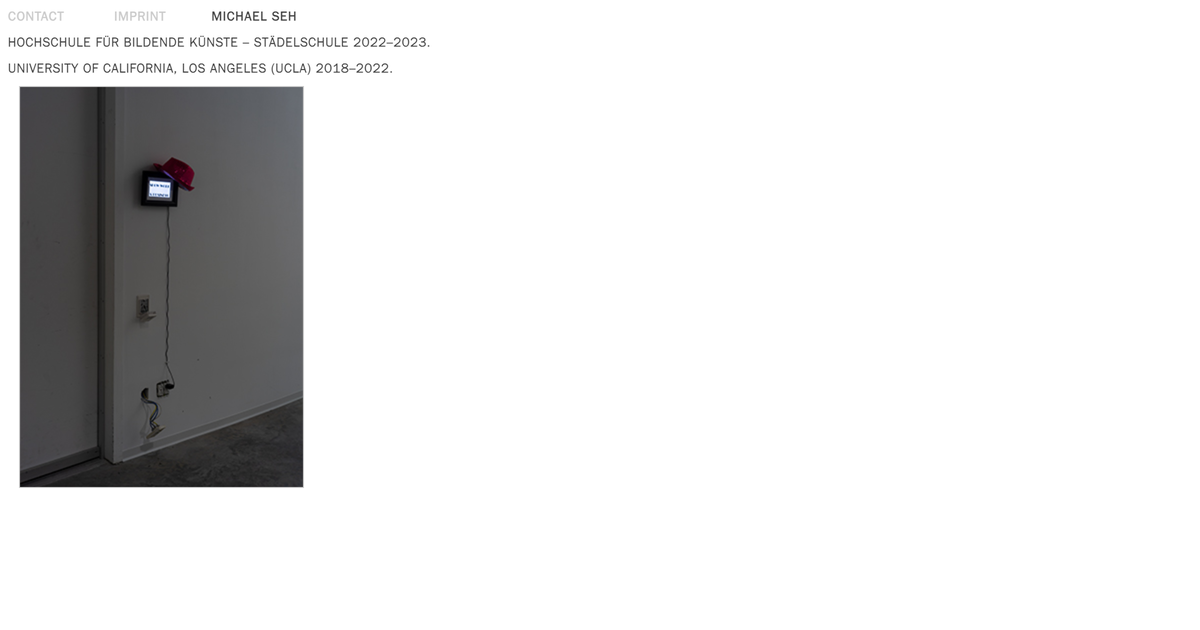
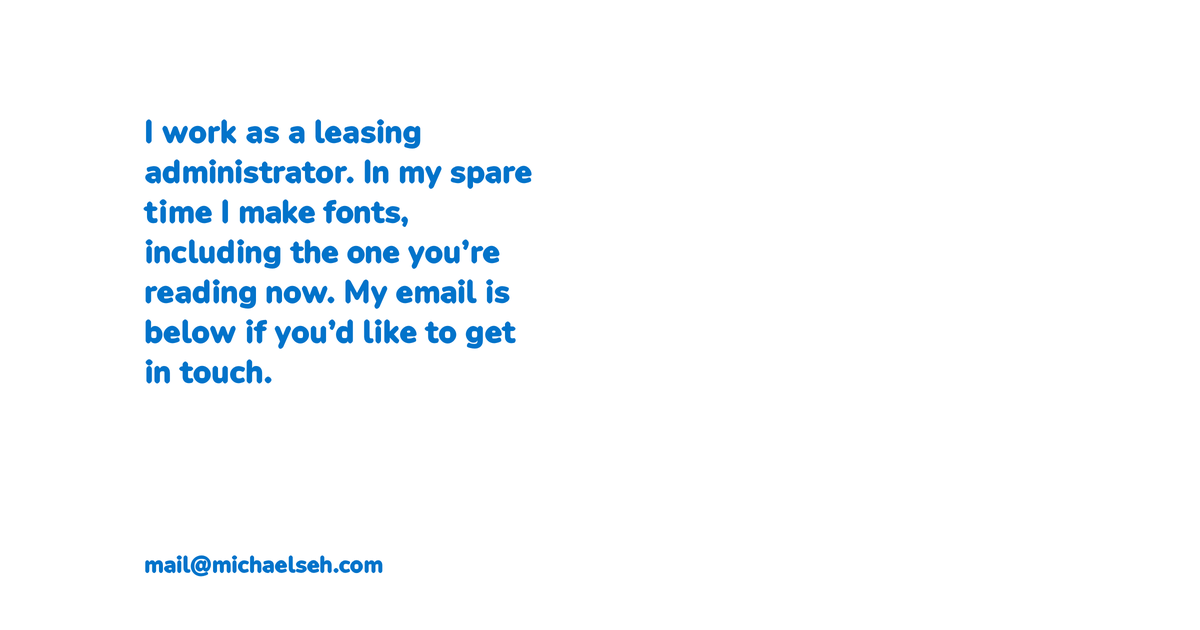
Add editable intro font tester, plain mailto, modern doctype, and social preview tags

diff --git a/index.html b/index.html
@@ -1,12 +1,23 @@
-<!DOCTYPE html PUBLIC "-//W3C//DTD XHTML 1.0 Transitional//EN" "http://www.w3.org/TR/xhtml1/DTD/xhtml1-transitional.dtd">
-<html xmlns="http://www.w3.org/1999/xhtml">
+<!DOCTYPE html>
+<html lang="en">
 <head>
+	<meta charset="utf-8">
 	<title>Michael Seh</title>
-	<meta http-equiv="Content-Type" content="text/html; charset=UTF-8" />
 	<meta name="description" content="Michael Seh is a type designer based in Los Angeles, CA." />
 	<meta name="keywords" content="Type Design, Michael, Seh, Typography, Type, MichaelSeh, LA, Los Angeles" />
 	<meta name="author" content="Michael, Seh, MichaelSeh" />
 	<meta name="viewport" content="width=device-width">
+	<meta property="og:type" content="website">
+	<meta property="og:url" content="https://michaelseh.com/">
+	<meta property="og:title" content="Michael Seh">
+	<meta property="og:description" content="Michael Seh is a type designer based in Los Angeles, CA.">
+	<meta property="og:image" content="https://michaelseh.com/og-screenshot.png">
+	<meta property="og:image:width" content="1200">
+	<meta property="og:image:height" content="630">
+	<meta name="twitter:card" content="summary_large_image">
+	<meta name="twitter:title" content="Michael Seh">
+	<meta name="twitter:description" content="Michael Seh is a type designer based in Los Angeles, CA.">
+	<meta name="twitter:image" content="https://michaelseh.com/og-screenshot.png">
 	<link rel="stylesheet" href="css/main.css">
 </head>
 
@@ -15,32 +26,23 @@
 
 		<div class="main">
 
-				<p class="intro">I work as a leasing administrator. In my spare time I make fonts, including the one you&#8217;re reading now. My email is below if you&#8217;d like to get in touch.</p>
+				<p class="intro" id="intro" contenteditable="true" spellcheck="false">I work as a leasing administrator. In my spare time I make fonts, including the one you&#8217;re reading now. My email is below if you&#8217;d like to get in touch.</p>
 
-				<p class="contact"><a class="txt" id="email" href="mailto:mail@michaelseh.com" data-email="mail@michaelseh.com">mail@michaelseh.com</a></p>
+				<p class="contact"><a class="txt" href="mailto:mail@michaelseh.com">mail@michaelseh.com</a></p>
 
 		</div>
 
-	<script type="text/javascript">
+	<script>
 	(function () {
-		var link = document.getElementById('email');
-		if (!link) return;
-		var original = link.textContent;
-		var timer;
-		link.addEventListener('click', function (e) {
-			var email = link.getAttribute('data-email');
-			if (navigator.clipboard && navigator.clipboard.writeText) {
-				e.preventDefault();
-				navigator.clipboard.writeText(email).then(function () {
-					link.textContent = 'copied';
-					clearTimeout(timer);
-					timer = setTimeout(function () { link.textContent = original; }, 1500);
-				}).catch(function () {
-					window.location.href = 'mailto:' + email;
-				});
-			}
-			// no clipboard support: fall through to the mailto: href
-		});
+		var intro = document.getElementById('intro');
+		if (!intro) return;
+		intro.focus({ preventScroll: true });
+		var range = document.createRange();
+		range.selectNodeContents(intro);
+		range.collapse(false);
+		var sel = window.getSelection();
+		sel.removeAllRanges();
+		sel.addRange(range);
 	})();
 	</script>
 

diff --git a/css/main.css b/css/main.css
@@ -20,8 +20,6 @@ a.txt:hover {color: #0273CA; text-decoration: none; }
 a.txt:active {color: #0273CA; text-decoration: none; }
 
 
-/* The window is treated as a page: the text block sits high and inset,
-   with the widest margins at the outer and bottom edges (classical canon). */
 div.main {
 	box-sizing: border-box;
 	min-height: 100vh;
@@ -30,15 +28,14 @@ div.main {
 	flex-direction: column;
 }
 
-/* Running text — a controlled measure, not a banner. */
 p.intro {
 	font-size: 30px;
 	line-height: 40px;
 	max-width: 13em;
 	hanging-punctuation: first last;
+	outline: none;
 }
 
-/* Contact steps down and settles into the bottom margin like a colophon. */
 p.contact {
 	margin-top: auto;
 	padding-top: 40px;
